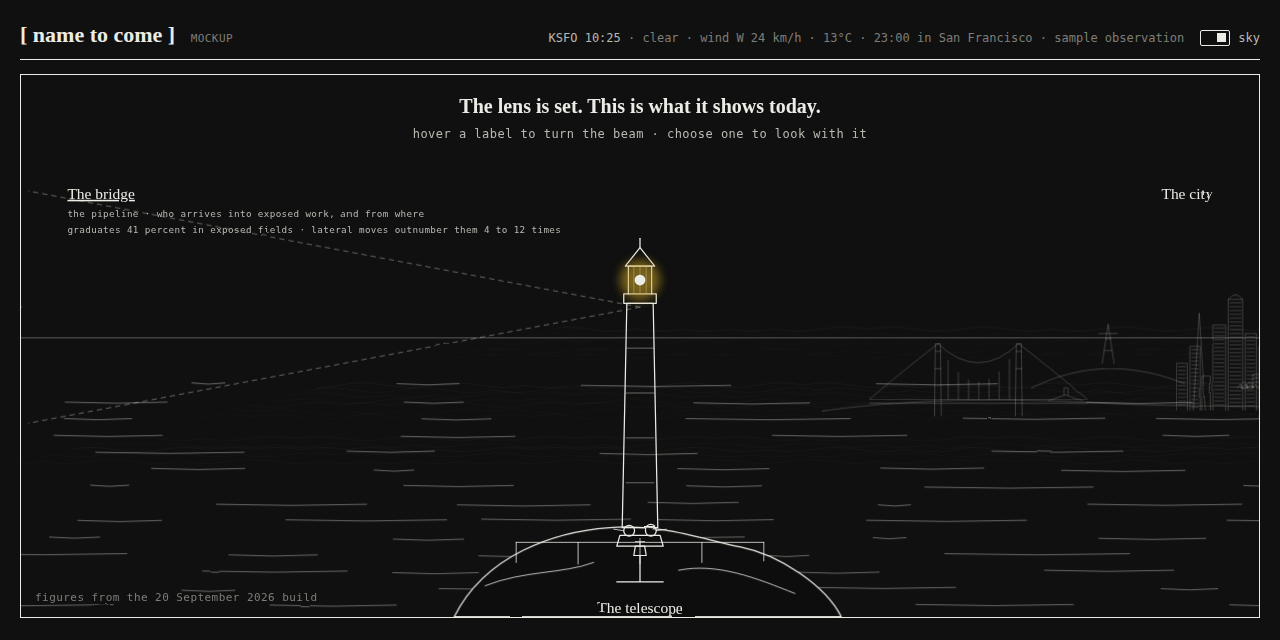
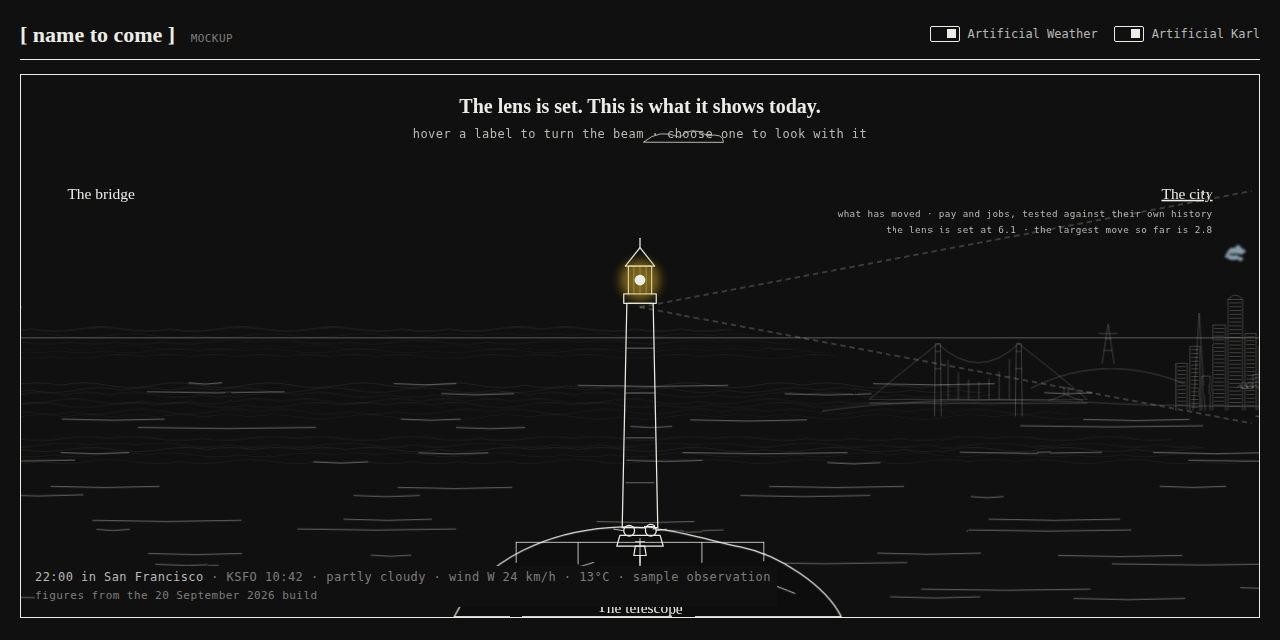
Mockup fifth pass: the observation in the stamp, the crown and the dome lit from dusk in the night's colours

diff --git a/docs/mockup/index.html b/docs/mockup/index.html
@@ -62,6 +62,11 @@ header.top{display:flex;align-items:baseline;justify-content:space-between;gap:1
 .beam{transform-origin:var(--bx) var(--by);transition:transform .8s cubic-bezier(.65,0,.25,1)}
 .stage:not([data-view="home"]) .fg .hot,.stage:not([data-view="home"]) .beam{display:none}
 .halo{fill:var(--gold);stroke:none;opacity:0;transition:opacity .6s}
+.nightlight{opacity:0;transition:opacity 1.2s}
+.dusk .nightlight{opacity:.45}
+.night .nightlight{opacity:.85}
+.crownblock{animation:flicker 9s ease-in-out infinite}
+@keyframes flicker{0%,100%{opacity:.15}35%{opacity:.9}60%{opacity:.3}80%{opacity:.7}}
 .night .halo{opacity:.55;filter:url(#glow)}
 
 .hot{cursor:pointer}
@@ -83,7 +88,8 @@ header.top{display:flex;align-items:baseline;justify-content:space-between;gap:1
 .edge.right span{transform:none;border-left:0;border-right:1px solid var(--ink);padding:6px 8px 6px 0}
 .edge:hover span{background:var(--wash)}
 .edge:focus-visible span{outline:2px solid var(--ink)}
-.stamp{position:absolute;left:14px;bottom:10px;font-family:var(--mono);font-size:11px;color:var(--ink-3);letter-spacing:.04em}
+.stamp{position:absolute;left:14px;bottom:10px;font-family:var(--mono);font-size:11px;color:var(--ink-3);letter-spacing:.04em;line-height:1.6;background:var(--paper);padding:2px 6px 2px 0}
+.stamp .obs{font-size:12px}
 .home{position:absolute;right:14px;top:10px;font-family:var(--mono);font-size:12px;background:var(--paper);border:1px solid var(--ink);color:var(--ink);padding:4px 10px;cursor:pointer}
 .home:hover{background:var(--wash)}
 .caption{position:absolute;left:0;right:0;top:16px;text-align:center;pointer-events:none}
@@ -128,7 +134,7 @@ header.top{display:flex;align-items:baseline;justify-content:space-between;gap:1
 .src b{color:var(--ink);font-weight:500}
 .coin .close{margin-top:12px;font-family:var(--mono);font-size:12px;background:transparent;border:1px solid var(--ink);color:var(--ink);padding:5px 12px;cursor:pointer}
 
-@media (prefers-reduced-motion: reduce){.fogline,.cloud,.rain,.water{animation:none}.pan,.fg,.viewer,.beam,.mask-in{transition:none}}
+@media (prefers-reduced-motion: reduce){.fogline,.cloud,.rain,.water,.crownblock{animation:none}.pan,.fg,.viewer,.beam,.mask-in{transition:none}}
 @media (max-width:820px){
   .reading{grid-template-columns:1fr}.series{grid-template-columns:1fr}.cad{white-space:normal}
   .stage svg{aspect-ratio:16/9}.scene text{font-size:16px}.scene .cap{font-size:26px}.vig{grid-template-columns:1fr}
@@ -139,7 +145,6 @@ header.top{display:flex;align-items:baseline;justify-content:space-between;gap:1
   <header class="top">
     <div class="brand">[ name to come ] <small>MOCKUP</small></div>
     <div class="ctl">
-      <span class="obs" id="obs"></span>
       <label title="the sky from the airport's latest observation"><input type="checkbox" id="tg-aw" checked> Artificial Weather</label>
       <label title="the fog, drawn"><input type="checkbox" id="tg-ak" checked> Artificial Karl</label>
     </div>
@@ -167,6 +172,7 @@ header.top{display:flex;align-items:baseline;justify-content:space-between;gap:1
         <g id="sky" class="sky thin"></g>
         <g id="washes"></g>
         <g id="far"></g>
+        <g id="lights"></g>
         <g id="water" class="hair"></g>
         <g id="fog" class="fog" mask="url(#fogmask)"></g>
       </g>
@@ -211,7 +217,7 @@ header.top{display:flex;align-items:baseline;justify-content:space-between;gap:1
     <button class="edge left" id="edge-left" hidden><span></span></button>
     <button class="edge right" id="edge-right" hidden><span></span></button>
     <button class="home" id="btn-home" hidden>back to the point</button>
-    <div class="stamp">figures from the 20 September 2026 build</div>
+    <div class="stamp"><span class="obs" id="obs"></span><br>figures from the 20 September 2026 build</div>
 
     <div class="coin" id="coin" hidden>
       <div class="card">
@@ -354,6 +360,42 @@ header.top{display:flex;align-items:baseline;justify-content:space-between;gap:1
 
   // the lighthouses: one in the foreground for the point, and the same tower drawn at the edges of the panorama
   lighthouse($("#lh"), 800, 585, 330);
+
+  /* ---------- the city after dark ----------
+     The crown of the tallest tower carries its slow picture of light, drawn
+     here as a few blocks that brighten and fade out of step. City Hall is
+     lit in a colour pair: on a handful of nights the pair the city uses for
+     the occasion, otherwise a pair drawn for the date, the same for every
+     visitor that night. The city's own lighting calendar can replace the
+     table when there is a feed for it. Both start at dusk. */
+  const LIGHTS = $("#lights");
+  const PALETTE = ["var(--gold)", "var(--rose)", "var(--orange)", "var(--green)", "var(--sky)", "#8E7CC3", "var(--cream)"];
+  const OCCASIONS = { "01-01":["var(--gold)","var(--gold)"], "02-14":["var(--rose)","var(--rose)"], "03-17":["var(--green)","var(--green)"],
+                      "04-22":["var(--green)","var(--sky)"], "06-28":["var(--rose)","#8E7CC3"], "07-04":["var(--orange)","var(--sky)"],
+                      "10-31":["var(--orange)","#8E7CC3"], "11-11":["var(--orange)","var(--sky)"], "12-24":["var(--orange)","var(--green)"],
+                      "12-25":["var(--orange)","var(--green)"], "12-31":["var(--gold)","var(--gold)"] };
+  function nightPair(d){
+    const key = new Intl.DateTimeFormat("en-US",{timeZone:"America/Los_Angeles",month:"2-digit",day:"2-digit"}).format(d).replace("/","-");
+    if (OCCASIONS[key]) return OCCASIONS[key];
+    const doy = Math.floor((d - new Date(d.getFullYear(),0,0))/86400e3), r = rng(doy*7+3);
+    const a = Math.floor(r()*PALETTE.length); let b = Math.floor(r()*PALETTE.length); if (b === a) b = (a+3) % PALETTE.length;
+    return [PALETTE[a], PALETTE[b]];
+  }
+  function drawLights(d){
+    LIGHTS.innerHTML = "";
+    const ox = HOME*2, baseY = 400, [ca, cb] = nightPair(d);
+    // the dome, split by the pair
+    blob(LIGHTS, ox+1066, baseY-136, 34, 40, ca, 41).classList.add("nightlight");
+    blob(LIGHTS, ox+1100, baseY-136, 34, 40, cb, 43).classList.add("nightlight");
+    // the crown: a soft wash and a grid of blocks that breathe out of step
+    blob(LIGHTS, ox+978, baseY-292, 44, 34, "#9FB7C9", 47).classList.add("nightlight");
+    const grid = el("g", {class:"nightlight"}, LIGHTS); const r = rng(59);
+    for (let i=0;i<4;i++) for (let j=0;j<5;j++){ const b = el("rect", {x:ox+986+i*7, y:baseY-286+j*6, width:5, height:4, class:"crownblock", style:`fill:#9FB7C9;stroke:none`}, grid); b.style.animationDelay = (-r()*9).toFixed(1) + "s"; }
+    // the same lights, small, in the far city seen from the point
+    blob(LIGHTS, HOME+1020+1100*.55-14, 300+(baseY-136-250)*.55, 20, 22, ca, 61).classList.add("nightlight");
+    blob(LIGHTS, HOME+1020+982*.55-2, 300+(baseY-292-250)*.55, 26, 18, "#9FB7C9", 63).classList.add("nightlight");
+  }
+  drawLights(new Date());
 
   /* ---------- the coin viewer, small and large ---------- */
   function viewer(g, s){
@@ -596,9 +638,10 @@ header.top{display:flex;align-items:baseline;justify-content:space-between;gap:1
     // the day's light
     const now = sfNow(), sun = sunPosition(now), phase = moonPhase(now), moon = sunPosition(now, phase*360, Math.cos(phase*2*Math.PI));
     document.querySelectorAll(".sunwash,.dawn,.sun,.moon").forEach(n=>n.remove());
-    const night = sun.alt < -6;
+    const night = sun.alt < -6, dusk = !night && sun.alt < 4;
     document.documentElement.dataset.theme = night ? "dark" : "light";
-    stage.classList.toggle("night", night);
+    stage.classList.toggle("night", night); stage.classList.toggle("dusk", dusk);
+    drawLights(now);
     if (sun.alt > -2 && !w.band && w.fog < .9){
       const x = xOfAzimuth(sun.az), y = yOfAltitude(sun.alt);
       el("path", {d:`M ${x} ${y} m -22 0 a 22 22 0 1 0 44 0 a 22 22 0 1 0 -44 0 M ${x} ${y-34} l 0 -10 M ${x} ${y+34} l 0 10 M ${x-34} ${y} l -10 0 M ${x+34} ${y} l 10 0`, class:"thin sun"}, sky);
@@ -618,7 +661,7 @@ header.top{display:flex;align-items:baseline;justify-content:space-between;gap:1
     const age = (Date.now() - o.time.getTime())/60000;
     stage.classList.toggle("stale", age > 90);
     const dir = ["N","NE","E","SE","S","SW","W","NW"][Math.round(((o.wind_from%360)+360)%360/45)%8];
-    $("#obs").innerHTML = `<b>${o.station} ${sfClock(o.time)}</b> · ${o.text.toLowerCase()} · wind ${dir} ${o.wind_kmh} km/h · ${o.temp_c}°C · ${sfClock(now)} in San Francisco${o.sample ? " · sample observation" : age > 90 ? " · last observation" : ""}`;
+    $("#obs").innerHTML = `<b>${sfClock(now)} in San Francisco</b> · ${o.station} ${sfClock(o.time)} · ${o.text.toLowerCase()} · wind ${dir} ${o.wind_kmh} km/h · ${o.temp_c}°C${o.sample ? " · sample observation" : age > 90 ? " · last observation" : ""}`;
   }
   drawSky(OBS, "home");
   fetchObservation().then(o=>{ if (o){ OBS = o; drawSky(OBS, stage.dataset.view); } });

diff --git a/docs/mockup/README.md b/docs/mockup/README.md
@@ -33,7 +33,15 @@ What it does:
   bridge; a warm band on the horizon at dawn and dusk; white ink on black
   after dark with the lantern lit; the moon at its phase from lunar age.
 - Two toggles: Artificial Weather, the sky from the observation, and
-  Artificial Karl, the fog.
+  Artificial Karl, the fog. The observation and San Francisco's clock sit
+  in the stamp at the foot of the drawing.
+- After dusk the city lights: the crown of the tallest tower carries a
+  few blocks of pale light that brighten and fade out of step, and City
+  Hall's dome is lit in a colour pair, the occasion's pair on a handful of
+  dates in a small table and otherwise a pair drawn for the date, the
+  same for every visitor that night. The city's own lighting calendar can
+  replace the table when there is a feed for it. The same lights show
+  small in the far city seen from the point.
 - The water sways. Now and then, one thing at a time and never faster
   than a cloud: a gull crosses, a plane comes in on the approach with its
   light blinking, a rocket climbs out of the south behind the bridge, a

diff --git a/docs/visual-concept.md b/docs/visual-concept.md
@@ -91,3 +91,14 @@ fog.
   robotaxi that meets a hydrant on the waterfront. One at a time, every
   fifteen to forty-five seconds, none of it branded, all of it off under
   reduced motion.
+
+## Fifth pass, 21 September 2026: the city after dark
+
+- The observation moves to the stamp; the header keeps the name and the
+  two toggles.
+- From dusk, the tallest tower's crown breathes with blocks of pale light
+  and the dome takes the night's colour pair: a table of occasions, else a
+  pair drawn for the date. A feed from the city's lighting calendar can
+  replace the table.
+- The personal marks stay unlabelled: the green, the house over it, and
+  the lights are there to be seen, not read.
